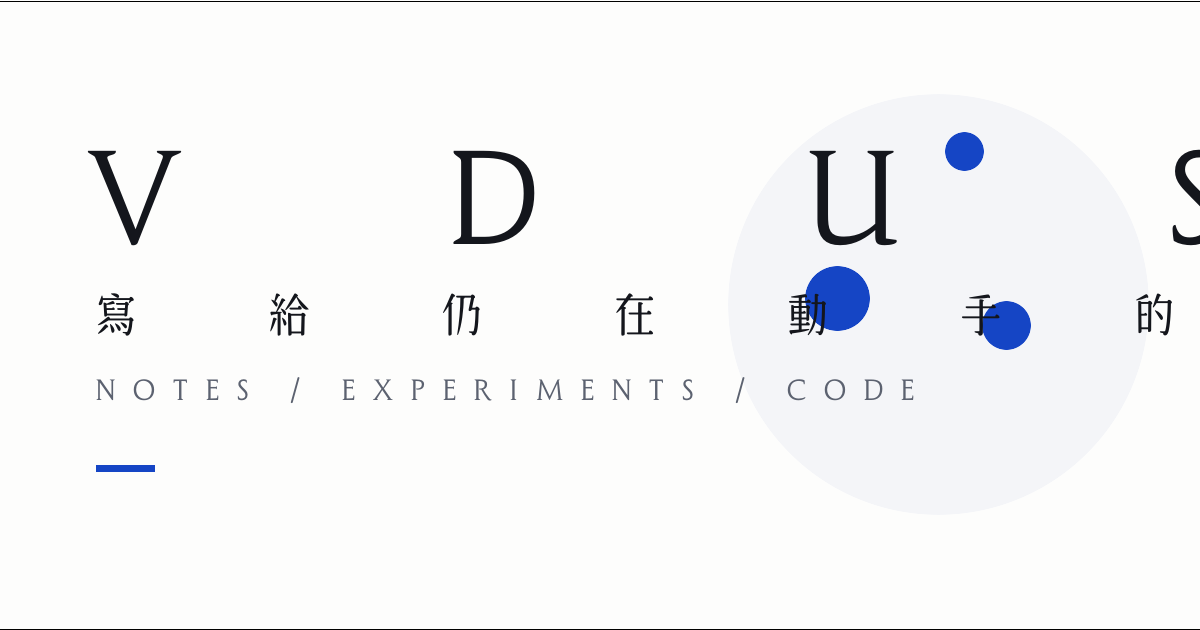
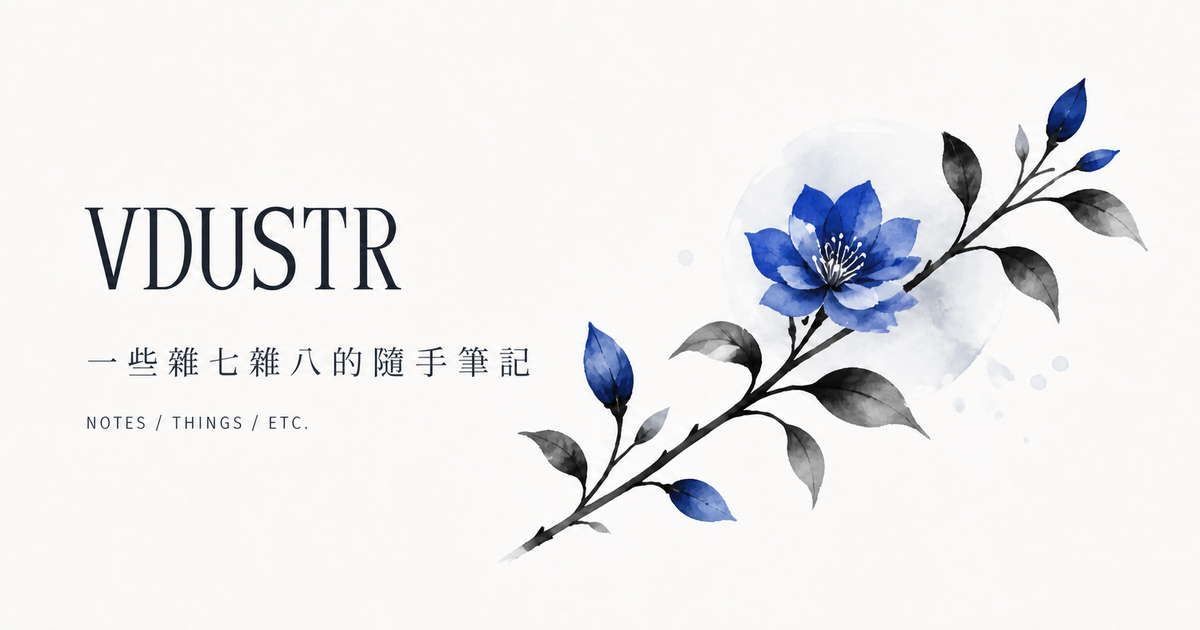
feat: refresh blog tagline and social image

diff --git a/src/pages/rss.xml.js b/src/pages/rss.xml.js
@@ -10,7 +10,7 @@ export async function GET(context) {
 
   return rss({
     title: "VDUSTR",
-    description: "寫給仍在動手的人。技術筆記、實驗與程式碼。",
+    description: "一些雜七雜八的隨手筆記。",
     site: new URL(import.meta.env.BASE_URL, context.site),
     items: posts.map((post) => ({
       title: post.data.title,

diff --git a/PRODUCT.md b/PRODUCT.md
@@ -8,19 +8,19 @@ web
 
 ## Users
 
-The primary audience is readers of Traditional Chinese technical writing. The site may also be evaluated by potential collaborators or employers. The exact priority between these audiences remains to be confirmed.
+The primary audience is readers interested in VdustR's miscellaneous Traditional Chinese notes. Technical writing remains part of the archive but does not define the publication's future scope.
 
 ## Product Purpose
 
-This is VdustR's personal blog. It publishes durable technical notes, experiments, and implementation reflections. A successful visit leads a reader from a distinctive first impression into an article that is comfortable to read and easy to navigate.
+This is VdustR's personal blog for miscellaneous notes written as ideas arise. A successful visit leads a reader from a distinctive first impression into an article that is comfortable to read and easy to navigate.
 
 ## Positioning
 
-The blog combines hands-on engineering experiments with a personal editorial voice. Its archive is the primary proof; no commercial or professional claims should be invented.
+The blog combines informal personal notes with an authored editorial setting. Its existing technical archive remains available, but future writing is not constrained to technology.
 
 ## Operating Context
 
-Readers arrive from search, social sharing, or VdustR's wider personal site. They browse the archive, search for a technical topic, read long-form Markdown or MDX articles, follow code examples, and continue to related external links.
+Readers arrive from search, social sharing, or VdustR's wider personal site. They browse the archive, read Markdown or MDX articles across changing subjects, and continue to related links.
 
 ## Capabilities and Constraints
 
@@ -34,8 +34,8 @@ Readers arrive from search, social sharing, or VdustR's wider personal site. The
 ## Brand Commitments
 
 - Use HanaMin as the primary display typeface and let its character inform the identity.
-- Use the approved light, spacious technical-publication composition in `.impeccable/mocks/decision/canon.webp` as the visual baseline.
-- Keep the identity polished and marketing-aware while embracing familiar technical-blog navigation and content patterns.
+- Use the approved light, spacious personal-publication composition in `.impeccable/mocks/decision/canon.webp` as the visual baseline.
+- Keep the identity polished and marketing-aware while embracing familiar personal-publication navigation and content patterns.
 - Existing visual architecture and styling are not binding.
 - The product name, slogan, logo, and other non-article copy may be replaced.
 
@@ -48,8 +48,8 @@ Readers arrive from search, social sharing, or VdustR's wider personal site. The
 
 ## Product Principles
 
-- Make the writing the strongest proof of expertise.
-- Give technical content an authored editorial setting.
+- Let the writing express the author's changing interests and point of view.
+- Give miscellaneous personal writing an authored editorial setting.
 - Preserve stable links and content behavior during the migration.
 - Make discovery, reading, and continuing to another article effortless.
 - Keep factual claims grounded in repository content.

diff --git a/DESIGN.md b/DESIGN.md
@@ -1,6 +1,6 @@
 ---
 name: VDUSTR
-description: A light, spacious technical publication for durable notes, experiments, and code.
+description: A light, spacious personal publication for miscellaneous notes.
 colors:
   cobalt: "#1545c5"
   cobalt-soft: "#eaf0ff"
@@ -72,11 +72,11 @@ components:
 
 ## Overview
 
-**Creative North Star: "The Technical Herbarium"**
+**Creative North Star: "The Personal Herbarium"**
 
-VDUSTR is a light, spacious technical publication where precise engineering notes sit inside an authored editorial setting. HanaMin gives the masthead and headings their distinctive Mincho character; restrained cobalt botanical ink adds a memorable human mark without competing with the archive.
+VDUSTR is a light, spacious personal publication for miscellaneous notes written as ideas arise. HanaMin gives the masthead and headings their distinctive Mincho character; restrained cobalt botanical ink adds a memorable human mark without competing with the archive.
 
-The system feels polished and publication-led while keeping familiar technical-blog navigation and reading patterns. Content carries authority through typography, whitespace, rules, and real article entries rather than promotional claims.
+The system feels polished and publication-led while keeping familiar personal-blog navigation and reading patterns. Content carries character through typography, whitespace, rules, and real article entries rather than promotional claims.
 
 **Key Characteristics:**
 
@@ -87,7 +87,7 @@ The system feels polished and publication-led while keeping familiar technical-b
 
 ## Identity
 
-The VDUSTR mark is a precise four-corner editorial frame interrupted by a cobalt sprout. The frame represents durable technical structure; the sprout represents experiments that remain alive and revisable. The asymmetric leaf prevents the mark from reading as a generic scanner or developer glyph.
+The VDUSTR mark is a precise four-corner editorial frame interrupted by a cobalt sprout. The frame represents the structure of a personal archive; the sprout represents thoughts that remain alive and revisable. The asymmetric leaf prevents the mark from reading as a generic scanner or developer glyph.
 
 - **Mark:** Use the generated transparent PNG master or its proportional raster exports. Never trace or redraw it as SVG.
 - **Favicon:** Use the transparent uncontained mark.
